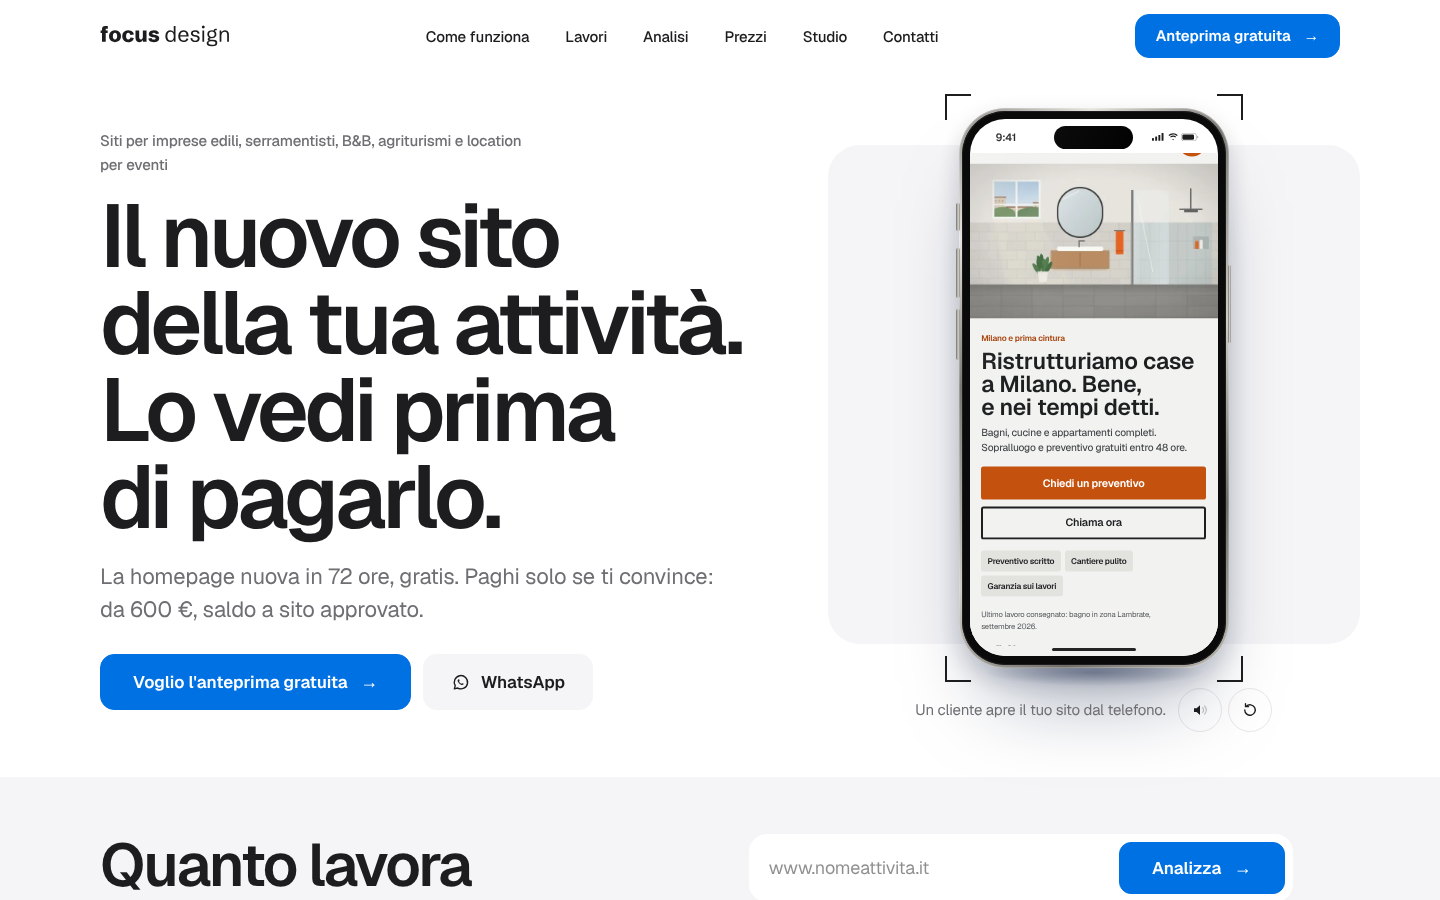
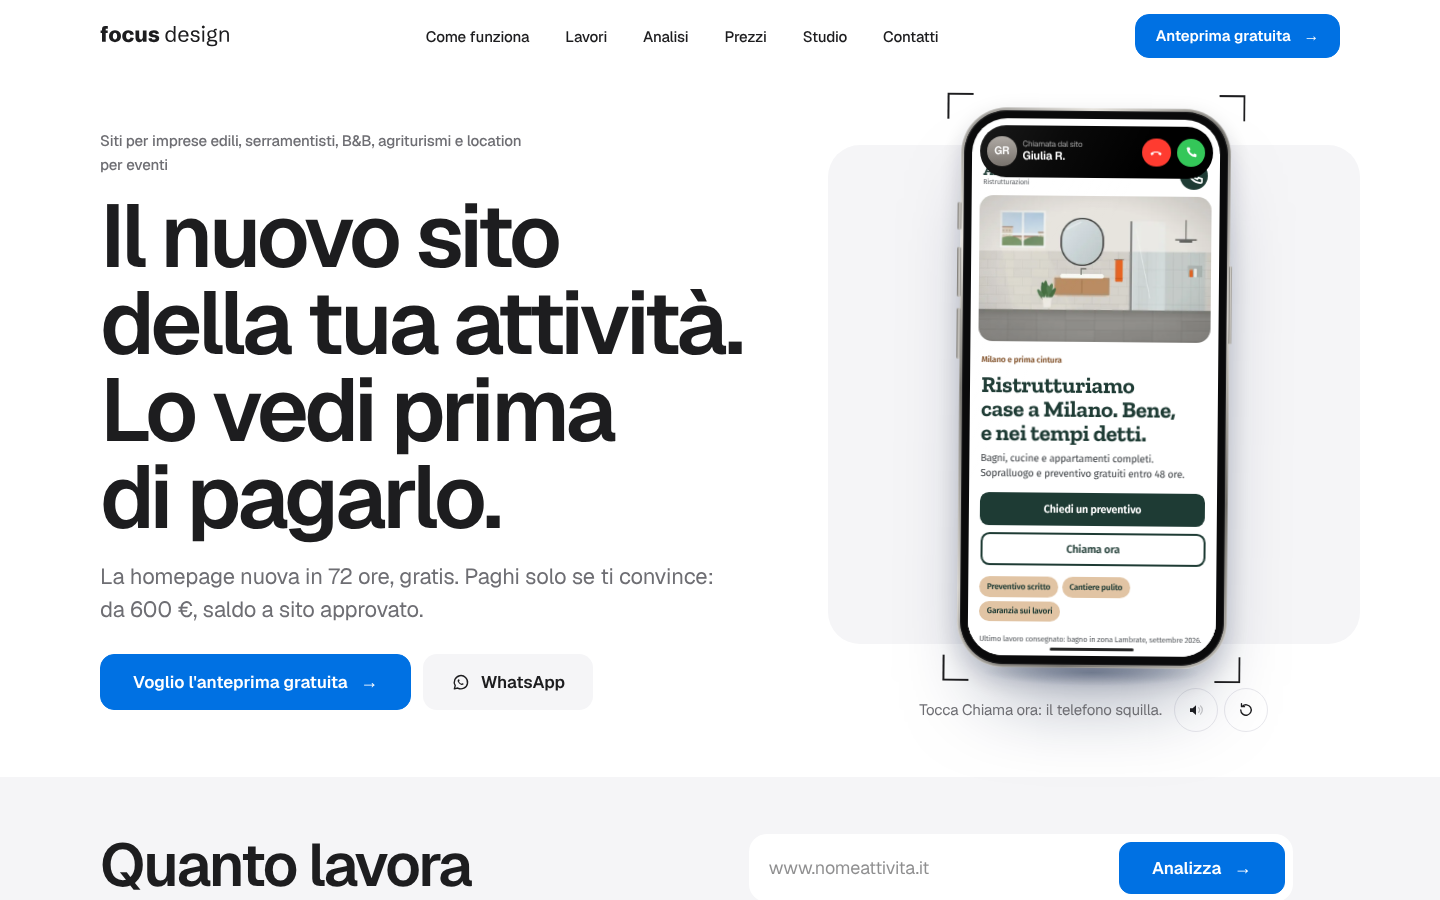
Home hero phone and pinned works show the new Arcadi; work names fit their column
Claude-Session: https://claude.ai/code/session_01DgEBdx8iCkMoWfpRPfTnBi

Changed region(s): [[0.6562, 0.0933, 0.875, 0.7156], [0.625, 0.7778, 0.8125, 0.8089], [0.8438, 0.7778, 0.875, 0.8089]]

diff --git a/focale/src/styles/global.css b/focale/src/styles/global.css
@@ -1058,13 +1058,15 @@ html.lenis body {
   display: grid;
   justify-items: start;
   gap: 0.75rem;
+  /* The name scales to its column: "Arcadi Ristrutturazioni" once ran under the picture. */
+  container-type: inline-size;
 }
 .wk__kind {
   font-size: var(--fs-small);
   color: var(--grafite);
 }
 .wk__name {
-  font-size: var(--fs-work);
+  font-size: min(var(--fs-work), 11.5cqi);
   line-height: 1;
   letter-spacing: -0.045em;
 }
